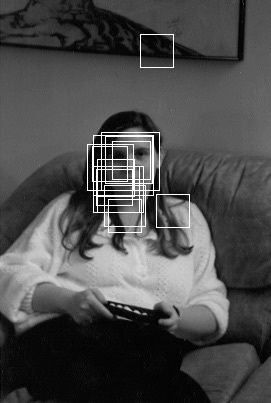
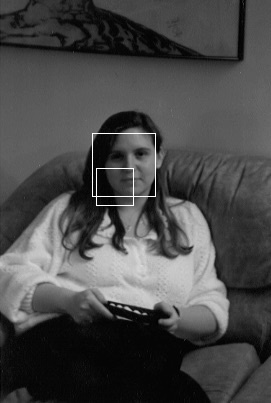
grouping rectangles

diff --git a/boosting/ViolaJones.cpp b/boosting/ViolaJones.cpp
@@ -324,11 +324,7 @@ void ViolaJones::loadTrainedData(string filename){
 			}
 			getline(iss, read, ',');
 			wc->setMisclassified(stoi(read));
-			vector<Rect> whites;
-			vector<Rect> blacks;
-			//Haar haar;
 			HaarFeatures::getFeature(24, wc);
-//			selectedFeatures.push_back(haar);
 			stage->addClassifier(wc);
 		}
 	}
@@ -337,158 +333,53 @@ void ViolaJones::loadTrainedData(string filename){
 	cout << "Trained data loaded correctly" << endl;
 }
 
-vector<Face> ViolaJones::mergeDetections(vector<Face>& detections){
-	vector<Face> cluster, output;
-	vector<int> indexes;
+vector<Face> ViolaJones::mergeDetections(vector<Face> detections, int padding, double th){
+	vector<Face> output, cluster;
 	double score;
-	int padding = 5;
 	Rect a, b;
 
-	for(unsigned int i = 0; i < detections.size(); ++i){
-		cluster.clear();
+	sort(detections.begin(), detections.end(),
+			[](Face const &a, Face const &b) {return a.getRect().area() > b.getRect().area();});
 
-		a = detections[i].getRect();
-		for(unsigned int j = 0; j < detections.size(); ++j){
-			if(i != j && !detections[j].isEvaluated()){
-				b = detections[j].getRect();
-				score = (double) (a & b).area() / (a | b).area();
-				if(score > 0.5){
-					detections[j].setEvaluated(true);
-					cluster.push_back(detections[j]);
-				}
-			}
-		}
-
-		if(cluster.size() > 0){
-			Rect result (0, 0, 0, 0);
+	for (unsigned int i = 0; i < detections.size(); ++i) {
+		if (!detections[i].isEvaluated()) {
+			cluster.clear();
 			cluster.push_back(detections[i]);
 			detections[i].setEvaluated(true);
+			a = detections[i].getRect();
 
-			for(unsigned int k = 0; k < cluster.size(); ++k){
-				result.x += cluster[k].getRect().x;
-				result.y += cluster[k].getRect().y;
-				result.width += cluster[k].getRect().width;
-				result.height += cluster[k].getRect().height;
-			}
-
-			result.x = result.x/cluster.size() - padding;
-			result.y = result.y/cluster.size() - padding;
-			result.width = result.width/cluster.size() + 2 * padding;
-			result.height = result.height/cluster.size() + 2 * padding;
-
-			output.push_back(Face(result));
-		}
-	}
-
-	for(int h = 0; h < output.size(); ++h){
-			cout << "index: " << h << " - " << output[h].getRect() << " value: " << output[h].getScore() <<  endl;
-			}
-
-	return output;
-}
-
-
-/*
-vector<Face> ViolaJones::mergeDetections(vector<Face> &detections){
-	vector<Face> output;
-	vector<int> indexes;
-	double ci, cj;
-	double distance;
-	bool insert;
-	double score;
-	double th = 6;
-	int padding = 4;
-	int size;
-	for(unsigned int j = 0; j < detections.size(); ++j){
-		size = output.size();
-		insert = false;
-		score = 1;
-		if(size == 0){
-			insert = true;
-		} else {
-			cj = (detections[j].getRect().x + detections[j].getRect().width) / 2;
-			indexes.clear();
-			for(unsigned int i = 0; i < output.size(); ++i){
-				ci = (output[i].getRect().x + output[i].getRect().width) / 2;
-				distance = sqrt(2 * pow(ci - cj, 2));
-				if(distance < th){
-					output.erase(output.begin() + i);
-					score += output[i].getScore();
-					i--;
-
-					//indexes.push_back(i);
-				}
-			}
-			if(indexes.size() > 0){
-				cout << "indexes: "<< indexes.size() << endl;
-				for(unsigned int k = 0; k < indexes.size(); ++k){
-					if(output[indexes[k]].getRect().width < detections[j].getRect().width){
-						output.erase(output.begin() + indexes[k]);
-						score += output[indexes[k]].getScore();
-						insert = true;
+			for (unsigned int j = 0; j < detections.size(); ++j) {
+				if (i != j && !detections[j].isEvaluated()) {
+					b = detections[j].getRect();
+					score = (double) (a & b).area() / (a | b).area();
+					if (score > th) {
+						detections[j].setEvaluated(true);
+						cluster.push_back(detections[j]);
 					}
 				}
-			} else {
-				insert = true;
 			}
-		}
-		if(insert){
-			detections[j].setScore(score);
-			output.push_back(detections[j]);
+
+			if(cluster.size() > 3){
+				Rect result(0, 0, 0, 0);
+
+				for (unsigned int k = 0; k < cluster.size(); ++k) {
+					result.x += cluster[k].getRect().x;
+					result.y += cluster[k].getRect().y;
+					result.width += cluster[k].getRect().width;
+					result.height += cluster[k].getRect().height;
+				}
+
+				result.x = result.x / cluster.size() - padding;
+				result.y = result.y / cluster.size() - padding;
+				result.width = result.width / cluster.size() + 2*padding;
+				result.height = result.height / cluster.size() + 2*padding;
+
+				output.push_back(Face(result, (double) cluster.size()));
+			}
+
 		}
 	}
-
-	cout << "size: " << output.size() << endl;
-
-	cout << "remained " << output.size() << endl;
-	indexes.clear();
-	for(int h = 0; h < output.size(); ++h){
-		cout << "index: " << h << " - " << output[h].getRect() << " value: " << output[h].getScore() <<  endl;
-		}
-
-	output.erase(remove_if(output.begin(), output.end(), [output](Face& face){
-		for(unsigned int i = 0; i < output.size(); ++i){
-			double intersection = (output[i].getRect() & face.getRect()).area();
-			if(intersection == face.getRect().area() && intersection != output[i].getRect().area()){
-				 return true;
-			}
-		}
-		return false;
-	}), output.end());
-
-	cout << "size: " << output.size() << endl;
-
-	double norm;
-	for_each(output.begin(), output.end(), [&norm] (const Face& face) {
-		norm += face.getScore();
-	});
-	double max = 0;
-	for_each(output.begin(), output.end(), [&norm, &max] (Face& face) {
-		double s = face.getScore()/norm;
-		face.setScore(s);
-		if(s > max) max = s;
-	});
-	th = max * 60 / 100;
-	for(unsigned int i = 0; i < output.size(); ++i){
-		if(output[i].getScore() < th){
-			//output.erase(output.begin() + i);
-			//i--;
-		} else {
-			Rect r = output[i].getRect();
-			r.x -= padding;
-			r.y -= padding;
-			r.width += 2*padding;
-			r.height += 2*padding;
-			output[i].setRect(r);
-		}
-	}
-
-	cout << "end " << endl;
-	for(int h = 0; h < output.size(); ++h){
-			cout << "index: " << h << " - " << output[h].getRect() << " value: " << output[h].getScore() <<  endl;
-			}
-
 	return output;
-}*/
+}
 
 ViolaJones::~ViolaJones(){}

diff --git a/facedetector/FaceDetector.cpp b/facedetector/FaceDetector.cpp
@@ -36,18 +36,18 @@ FaceDetector::FaceDetector(vector<Mat> trainImages, vector<int> trainLabels, int
 }
 
 void FaceDetector::train(){
+	cout << "Traing ViolaJones face detector\n" << endl;
 	vector<Data*> positives;
 	vector<Data*> negatives;
 	double percent = 0;
 	auto t_start = chrono::high_resolution_clock::now();
 
-	cout << "\nExtracting image features" << endl;
+	cout << "Extracting image features" << endl;
 
 	for(int i = 0; i < trainImages.size(); ++i){
 		Mat intImg = IntegralImage::computeIntegralImage(trainImages[i]);
 		//Extracting haar like features
 		vector<double> features = HaarFeatures::extractFeatures(intImg, detectionWindowSize, 0, 0);
-		/*	Initialize weights */
 		if(trainLabels[i] == 1){
 			positives.push_back(new Data(features, trainLabels[i]));
 		} else {
@@ -76,13 +76,13 @@ vector<Face> FaceDetector::detect(Mat img, bool showResults, bool showScores){
 	int x, y, w;
 	int fontFace = FONT_HERSHEY_SCRIPT_SIMPLEX;
 	double fontScale = 0.5;
-	int thickness = 1;
+
+	//Evaluating computation time
+	auto t_start = chrono::high_resolution_clock::now();
 
 	//For each image scale
 	for(int s = 0; s < scales; ++s){
 		scaleRefactor = pow(scaleFactor, s);
-		cout << "Scale factor " << scaleRefactor << endl;
-
 		//Detection window slides
 		intImg = IntegralImage::computeIntegralImage(tmp);
 		for(int j = 0; j < tmp.rows - detectionWindowSize - delta; j += delta){
@@ -105,32 +105,25 @@ vector<Face> FaceDetector::detect(Mat img, bool showResults, bool showScores){
 		dst.copyTo(tmp);
 	}
 
-	cout << "Detected: " << predictions.size() << " faces" << endl;
     predictions = boost->mergeDetections(predictions);
-    cout << "Merged into: " << predictions.size() << " faces" << endl;
+    cout << "Detected " << predictions.size() << " faces" << endl;
+
+	auto t_end = high_resolution_clock::now();
+	cout << "Time: " << (duration<double, milli>(t_end - t_start).count())/1000 << " s" << endl;
+
 	if(showResults){
-		//double norm;
-		/*for_each(predictions.begin(), predictions.end(), [&norm] (const Face& face) {
-			norm += face.getScore();
-		});*/
 		for(unsigned int i = 0; i < predictions.size(); ++i){
 			if(showScores){
 				string text = to_string(predictions[i].getScore());
 				Point textOrg(predictions[i].getRect().x + 5,
 						predictions[i].getRect().y + 15);
 				putText(img, text, textOrg, fontFace, fontScale,
-							        Scalar::all(255), thickness, 8);
+							        Scalar::all(255), 1, 8);
 			}
-			/*if(predictions[i].getScore() / norm > 0.5){
-				thickness = 2;
-			}*/
-			rectangle(img, predictions[i].getRect(), Scalar::all(255), thickness);
-			/*cout << "Score: " << predictions[i].getScore() << endl;
-			imshow("img", img);
-					waitKey(0);*/
+			rectangle(img, predictions[i].getRect(), Scalar::all(255));
 		}
 		imshow("img", img);
-				waitKey(0);
+		waitKey(0);
 		imwrite("out.jpg", img);
 	}
 

diff --git a/boosting/ViolaJones.h b/boosting/ViolaJones.h
@@ -38,6 +38,7 @@ private:
 	void initializeWeights();
 	void generateNegativeSet();
 
+
 protected:
 	double updateAlpha(double error);
 	double updateBeta(double error);
@@ -48,12 +49,13 @@ public:
 	ViolaJones();
 	ViolaJones(string trainedPath);
 	ViolaJones(vector<Data*> positives, vector<Data*> negatives, int maxStages);
+	vector<Face> mergeDetections(vector<Face> detections, int padding = 6, double th = 0.5);
 	void train();
 	int predict(Mat img);
 	void loadTrainedData(string filename);
 	void store();
 	~ViolaJones();
-	vector<Face> mergeDetections(vector<Face> &detections);
+
 };
 
 #endif /* BOOSTING_VIOLAJONES_H_ */

diff --git a/boosting/utils/Face.cpp b/boosting/utils/Face.cpp
@@ -9,6 +9,8 @@
 
 Face::Face(Rect rect): rect(rect), score(0.), evaluated(false){}
 
+Face::Face(Rect rect, double score): rect(rect), score(score), evaluated(false){}
+
 const Rect& Face::getRect() const {
 	return rect;
 }

diff --git a/boosting/utils/Face.h b/boosting/utils/Face.h
@@ -22,6 +22,7 @@ private:
 
 public:
 	Face(Rect rect);
+	Face(Rect rect, double score);
 	~Face();
 	const Rect& getRect() const;
 	void setRect(const Rect& rect);
